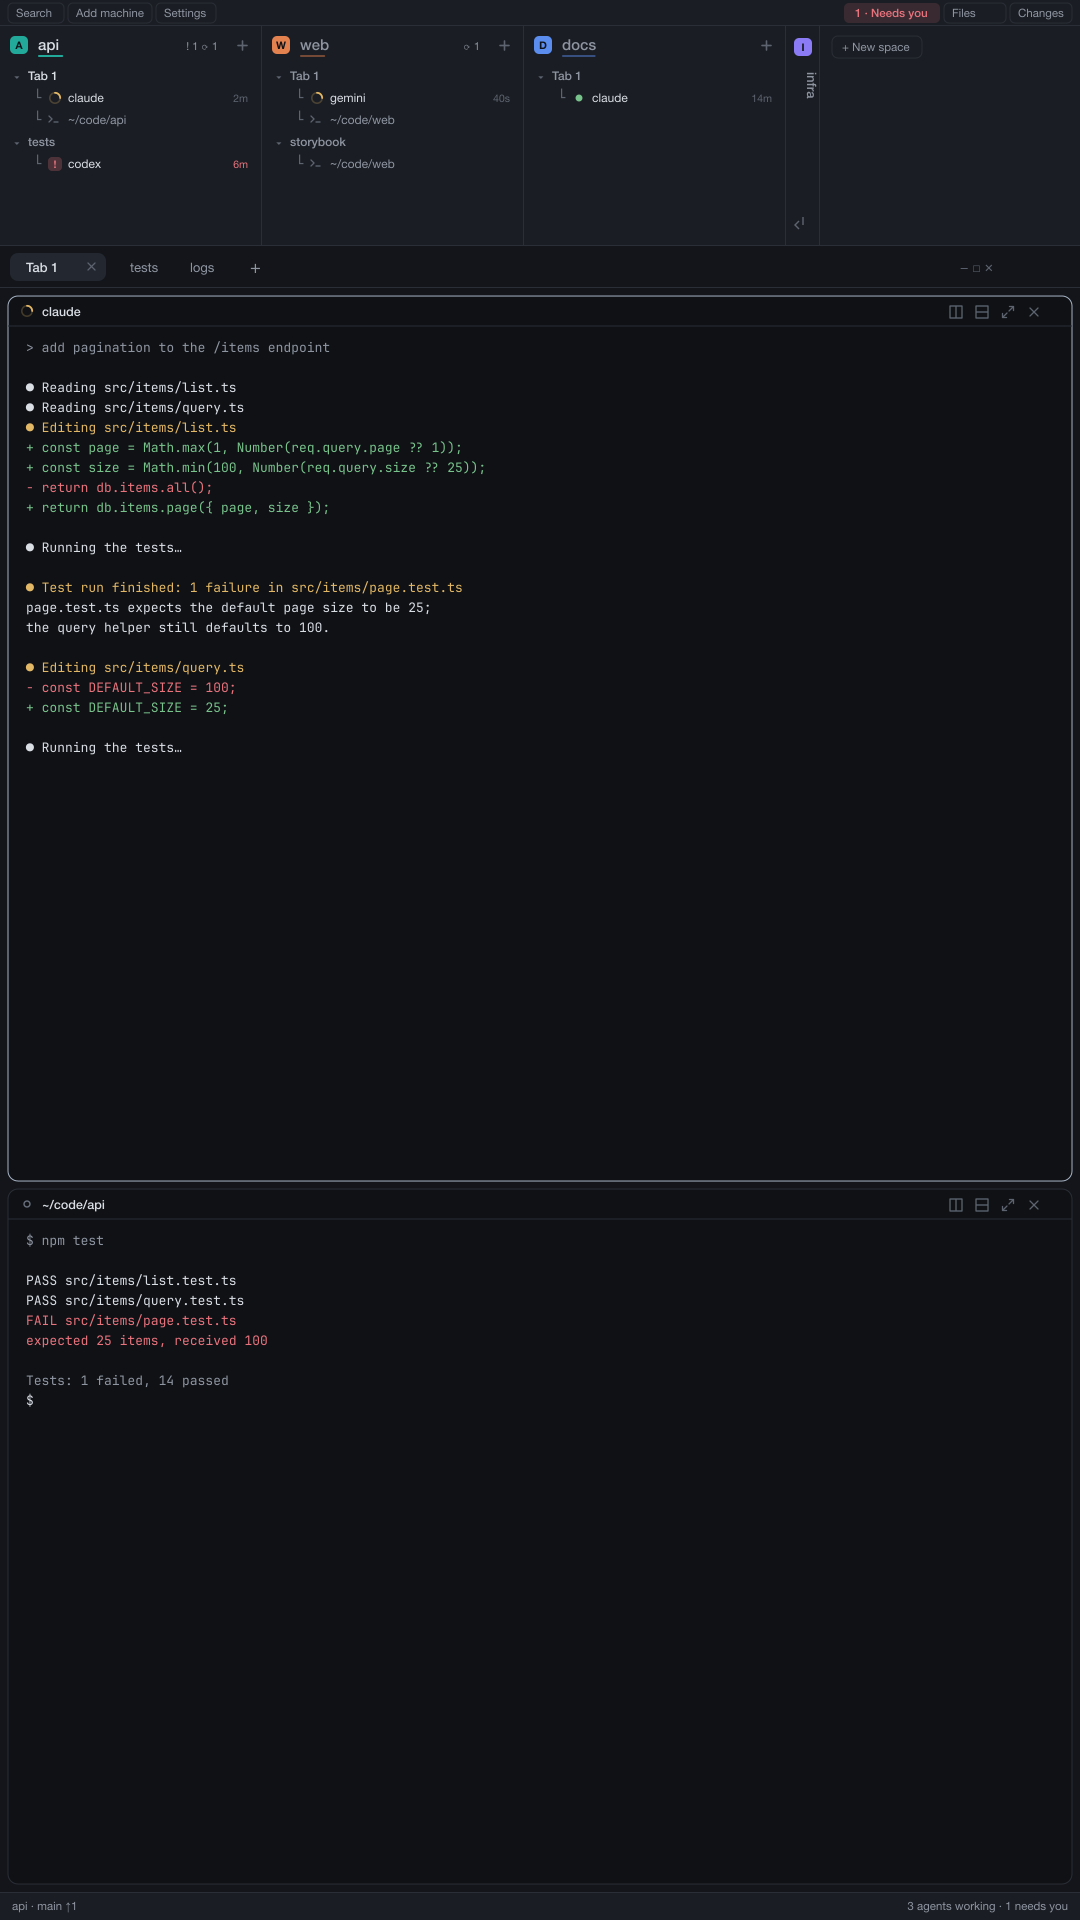
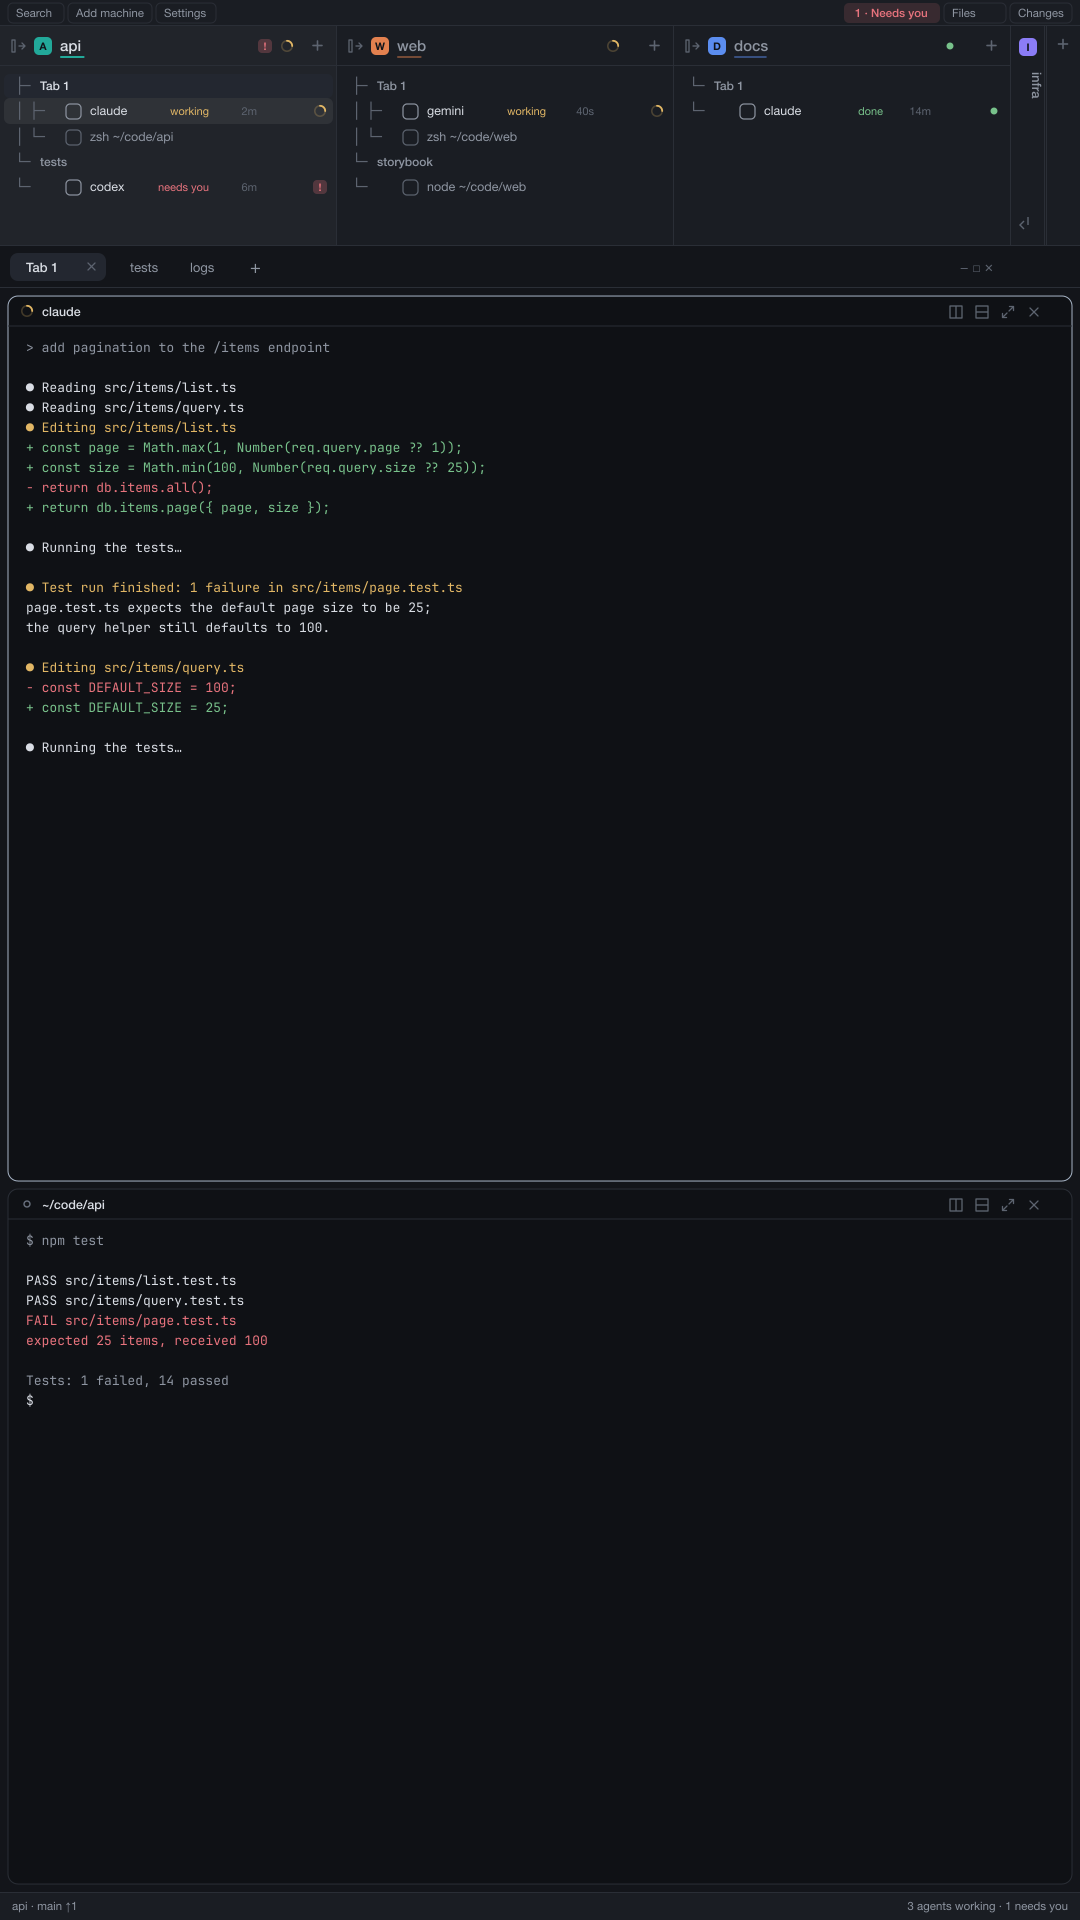
Add the remaining repo checks and the publish checklist
HC-1-5 (scripts), HC-1-12, DOC-1-15 (script half). check-docs.mjs verifies
links, anchors, hosts, page basics and llms.txt parity; validate.mjs now also
checks LICENSE and that NOTICE accounts for every vendored icon; scripts/PUBLISH.md
is the publish checklist with every manual step marked author. The preview now
matches the real column minimum and row layout of the tree.

Claude-Session: https://claude.ai/code/session_01X82turmGfeaMR1NZfcjkav

diff --git a/scripts/PUBLISH.md b/scripts/PUBLISH.md
@@ -1,0 +1,60 @@
+# Publish checklist
+
+Steps to take this repository public and list it at herdr.dev. Everything marked **author** is a manual step that
+only the repository owner does: agents and CI never change visibility, settings or topics.
+
+Nothing here is part of the Pages site.
+
+## Before publishing
+
+1. [ ] **author** Create `.privacy-denylist` (git-ignored) with one term per line: your own name, employers, host
+   names, anything that must never appear. Run `node scripts/privacy-scan.mjs --commits`; it must say `ok`. Also add the
+   same terms, comma separated, as the repository secret `PRIVACY_DENYLIST` so CI checks them too.
+2. [ ] Run the whole suite from the repository root; each must exit 0:
+   ```sh
+   node --test tests/
+   node scripts/validate.mjs
+   node scripts/check-recipe.mjs
+   node scripts/check-assets.mjs
+   node scripts/check-docs.mjs
+   node scripts/privacy-scan.mjs --commits
+   ```
+3. [ ] **author** With Herdr installed, check each mod once (Herdr writes nothing into the repository, but run it on a
+   copy of the folders under your app home if you prefer):
+   ```sh
+   for m in mods/*; do herdr-app check "$PWD/$m"; done
+   ```
+4. [ ] **author** Install the layout on a spare app home (`HERDR_APP_HOME=<empty folder> herdr-app`), switch to
+   `portrait` and `portrait-bottom`, and tick every item under "Done when" in `RECIPE.md`. Not covered by CI and
+   not verified by the agents that wrote this: the live app, a fish login shell for the nvim click, a real Linux
+   run, a real Windows run.
+5. [ ] Look at `preview.png` on GitHub once pushed: it must show only invented content. Re-draw it with
+   `node scripts/make-preview.mjs` if the layout changed (needs `rsvg-convert`).
+6. [ ] CI is green on all three operating systems for the commit you tag:
+   `gh run list --branch main` (use the owner's account).
+7. [ ] `bar-strip` opens the mod `attention-picker` by name: confirm `mods/attention-picker` is the latest copy from the
+   herdr-agents-waiting repository.
+
+## Publishing
+
+8. [ ] **author** Decide the published name. The layout files are `portrait` and `portrait-bottom` and the keys
+   sections are `layout:portrait` and `layout:portrait-bottom`; renaming means changing both (and the load-bearing list in
+   `RECIPE.md`) and re-running `node scripts/validate.mjs`.
+9. [ ] **author** Set the repository to public (Settings, Danger zone).
+10. [ ] **author** Add the topic `herdr-layout` to the repository (About, Topics). The repository holds a layout that
+    brings its mods, so one topic is enough; it appears at https://herdr.dev/layouts within the hour. If the mods
+    should also be listed at https://herdr.dev/mods, publish them from a separate repository with the topic `herdr-mod`.
+11. [ ] **author** Enable GitHub Pages: Settings, Pages, deploy from branch `main`, folder `/docs`. (Pages on a private
+    repository needs a paid plan, so do it after step 9.) Do not add a Pages workflow.
+12. [ ] **author** Confirm the license: `gh api repos/<owner>/<repo>/license --jq .license.spdx_id` should print
+    `Apache-2.0`.
+13. [ ] **author** Tag the release: `git tag v0.1.0 && git push origin v0.1.0`, then create the GitHub release from the
+    changelog's section.
+14. [ ] Ask a fresh agent, with an empty app home, to add the layout from `https://herdr.dev/layouts/<owner>/<repo>` and
+    run the steps of `AGENTS.md`; fix whatever it tripped on in `RECIPE.md`.
+
+## After publishing
+
+- Watch https://herdr.dev/layouts for the entry (up to an hour). If it does not appear, check the topic spelling and that
+  the repository is public.
+- Keep the copy in `mods/attention-picker` in sync after every release of herdr-agents-waiting.
